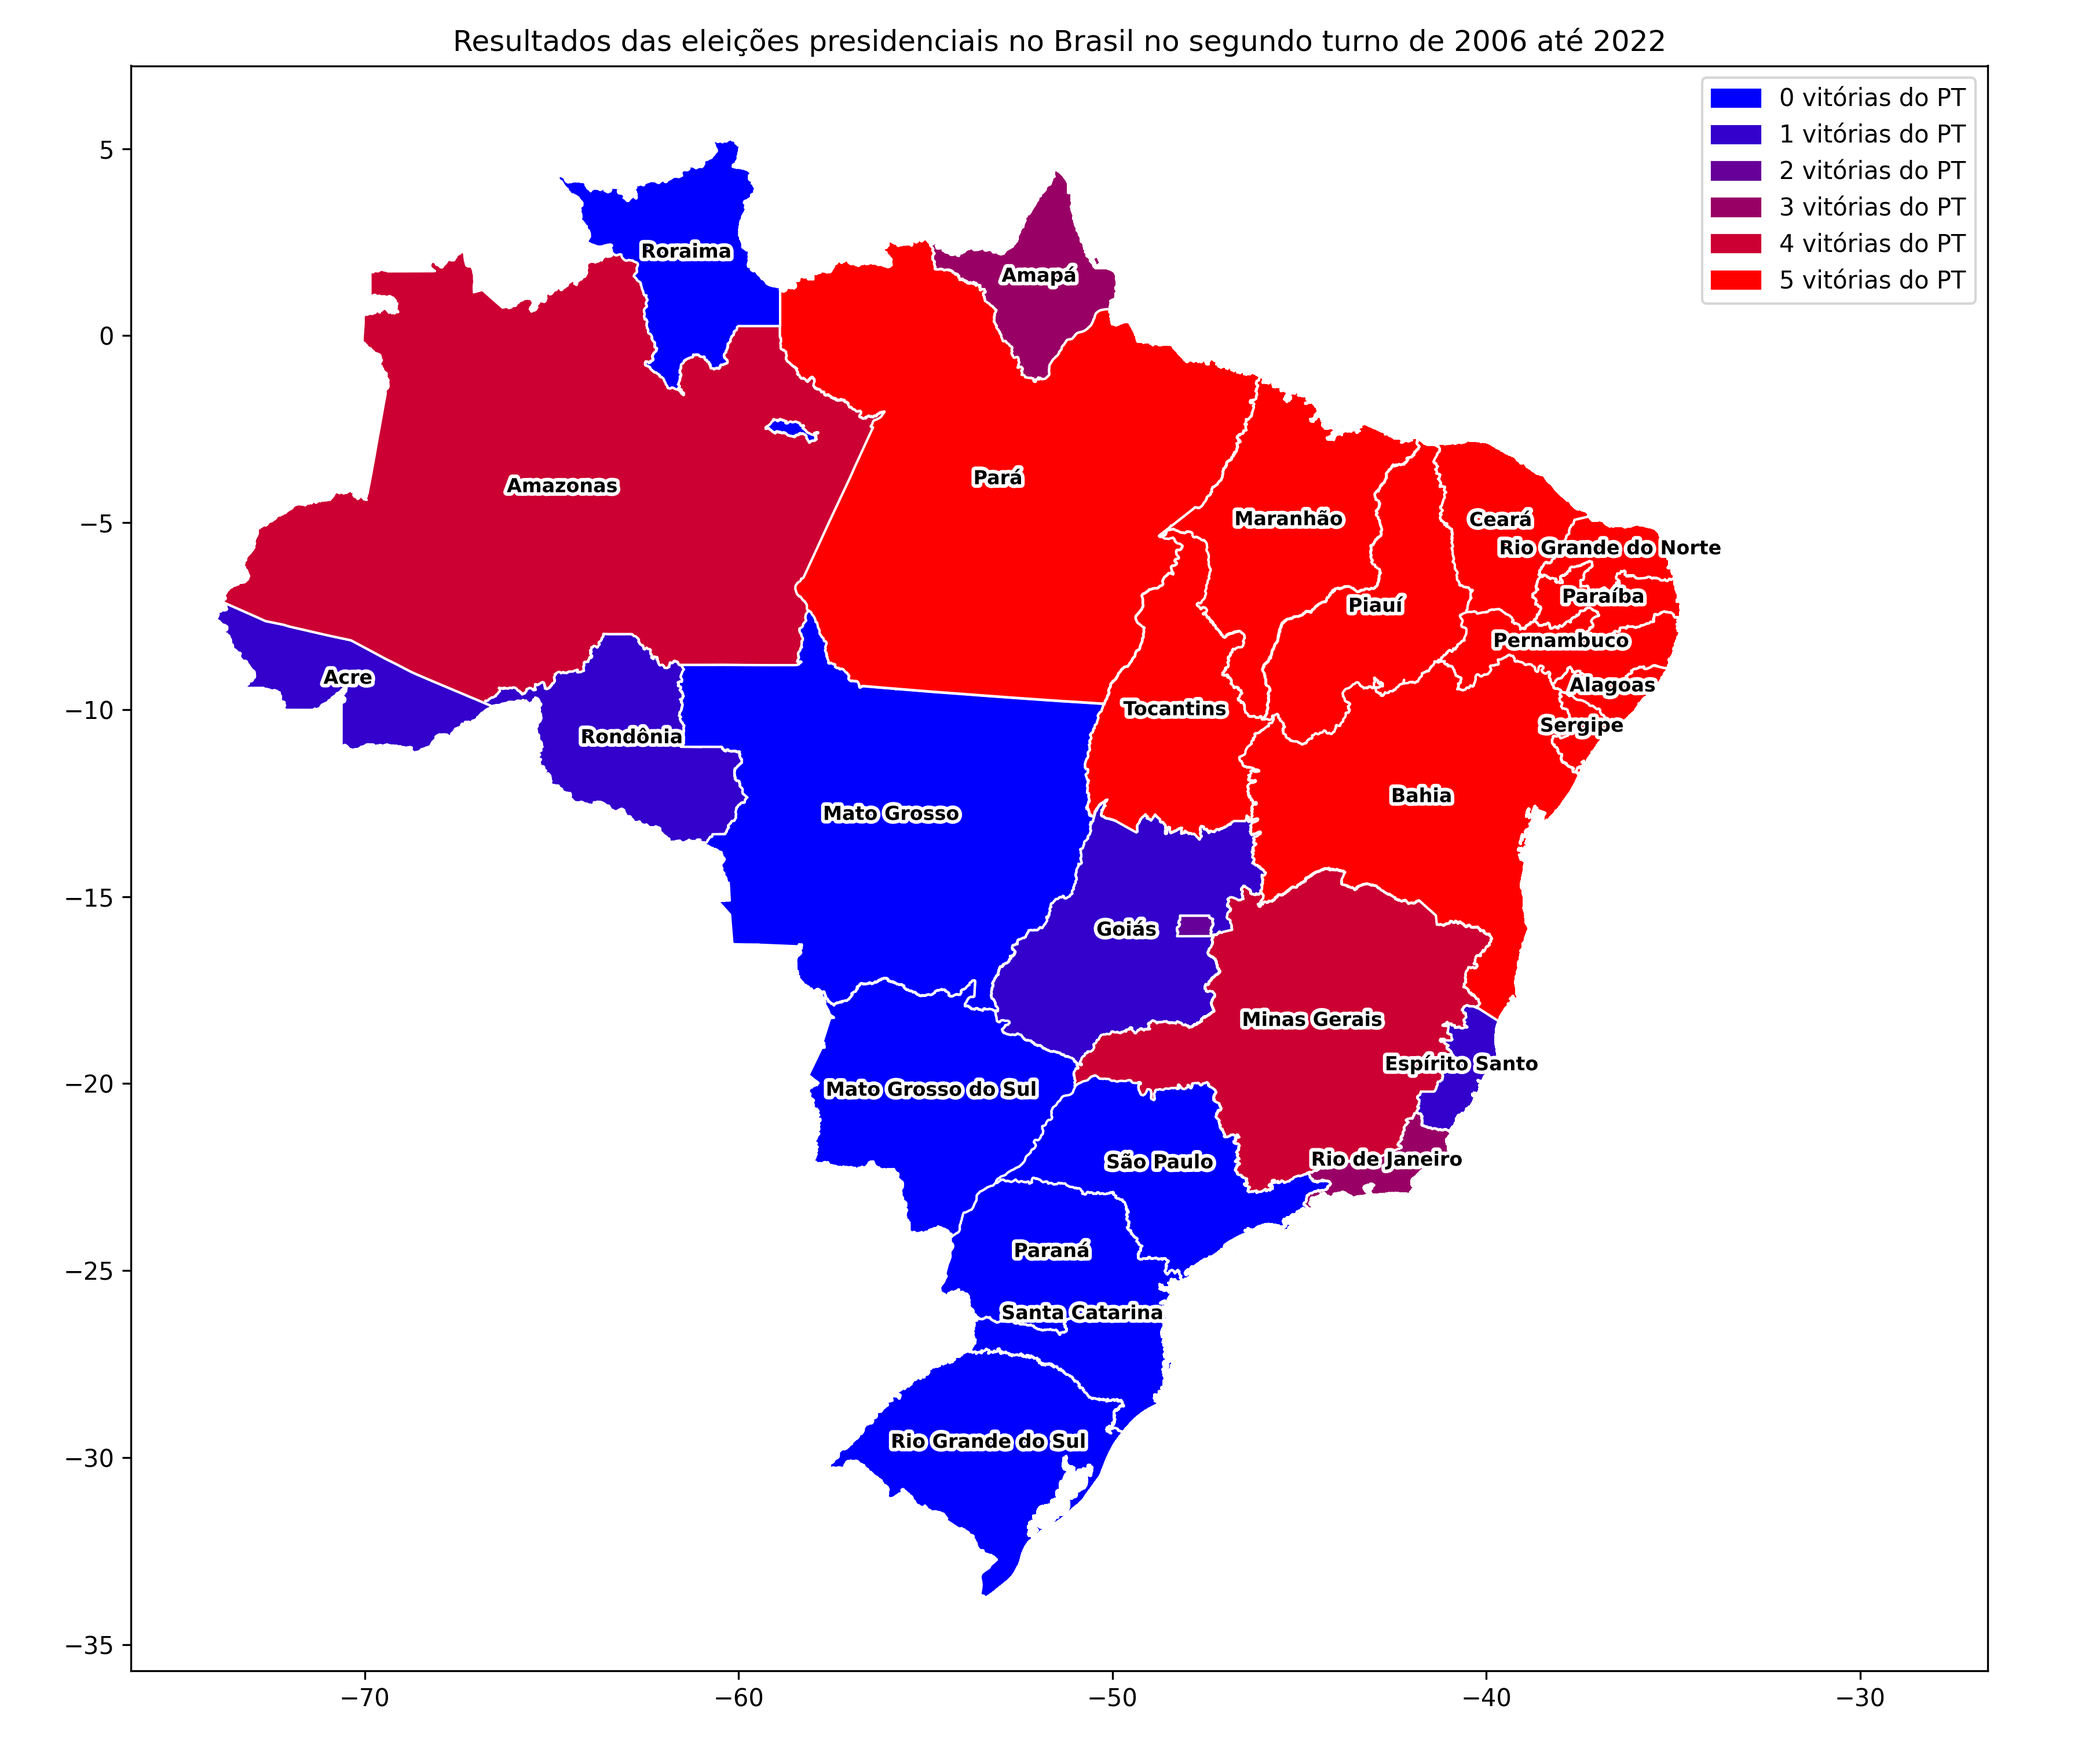
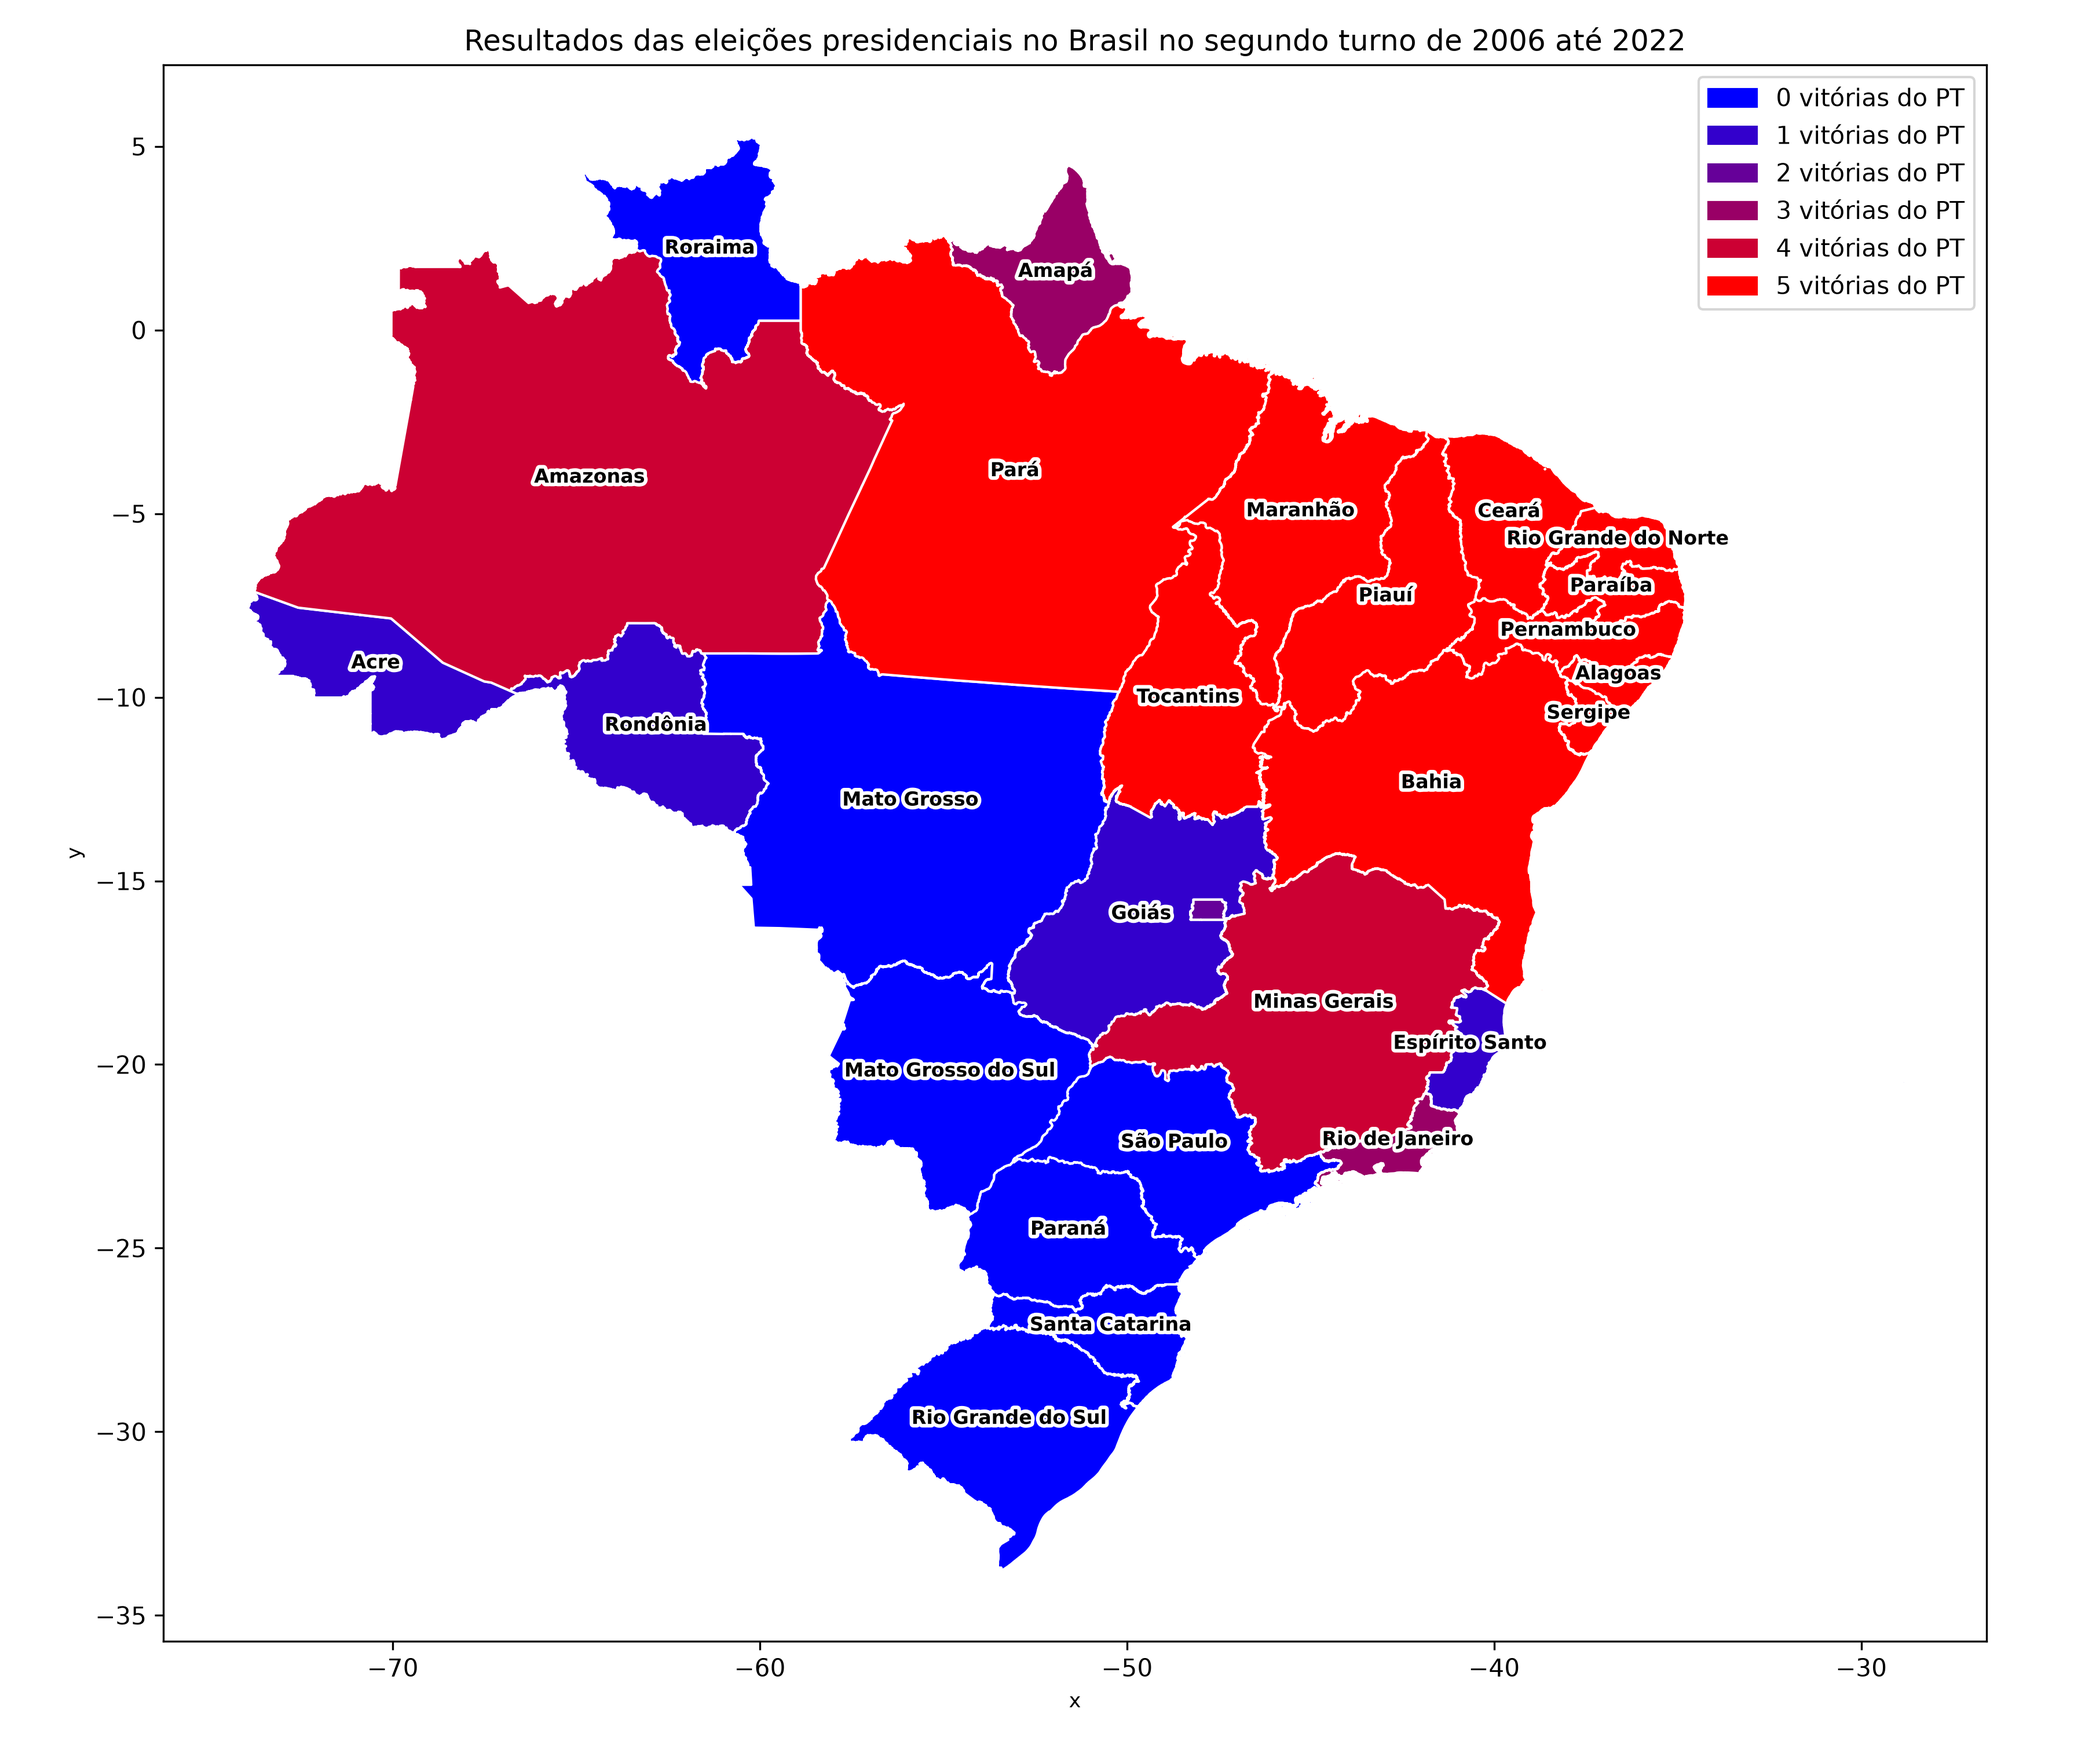
Restore election map generation with official state boundaries

diff --git a/index.py b/index.py
@@ -1,5 +1,4 @@
 import pandas as pd
-import zipfile
 import geopandas as gpd
 import matplotlib.pyplot as plt
 from matplotlib.colors import LinearSegmentedColormap
@@ -8,8 +7,13 @@ import matplotlib.patches as mpatches
 import requests
 import io
 
+HEADERS = {'User-Agent': 'brasil-eleicoes/1.0 (https://github.com/marco-carvalho/brasil-eleicoes)'}
+
 def get_dados_eleicao(url, index_table, year, index_column, left, right):
-  eleicao = pd.read_html(url, flavor='bs4')[index_table][:27].iloc[: , :8]
+  response = requests.get(url, headers=HEADERS, timeout=30)
+  response.raise_for_status()
+  eleicao = pd.read_html(io.StringIO(response.text), flavor='bs4')[index_table]
+  eleicao = eleicao.dropna(how='all')[:27].iloc[:, :8]
   eleicao.insert(0, 'Ano', year)
   eleicao.rename(columns={f'Estado[{index_column}]':'Estado'}, inplace=True)
   eleicao.rename(columns={left:'PT'}, inplace=True)
@@ -17,7 +21,7 @@ def get_dados_eleicao(url, index_table, year, index_column, left, right):
   return eleicao
 
 eleicoes = pd.concat([
-  get_dados_eleicao("https://pt.wikipedia.org/wiki/Elei%C3%A7%C3%A3o_presidencial_no_Brasil_em_2006", 9, 2006, 7, 'Lula', 'Alckmin'),
+  get_dados_eleicao("https://pt.wikipedia.org/wiki/Elei%C3%A7%C3%A3o_presidencial_no_Brasil_em_2006", 11, 2006, 7, 'Lula', 'Alckmin'),
   get_dados_eleicao("https://pt.wikipedia.org/wiki/Resultados_da_elei%C3%A7%C3%A3o_presidencial_no_Brasil_em_2010", 4, 2010, 3, 'Dilma', 'Serra'),
   get_dados_eleicao("https://pt.wikipedia.org/wiki/Resultados_da_elei%C3%A7%C3%A3o_presidencial_no_Brasil_em_2014", 4, 2014, 4, 'Dilma', 'Aécio'),
   get_dados_eleicao("https://pt.wikipedia.org/wiki/Resultados_da_elei%C3%A7%C3%A3o_presidencial_no_Brasil_em_2018", 7, 2018, 3, 'Haddad', 'Bolsonaro'),
@@ -37,11 +41,9 @@ eleicoes['Outros'] = eleicoes['Eleitorado']-eleicoes['Abstenção']-eleicoes['PT
 eleicoes['%Outros'] = eleicoes['Outros']/eleicoes['Eleitorado']
 eleicoes.reset_index(drop=True)
 
-response = requests.get("https://biogeo.ucdavis.edu/data/gadm3.6/gpkg/gadm36_BRA_gpkg.zip")
-zip_bytes = io.BytesIO(response.content)
-with zipfile.ZipFile(zip_bytes, 'r') as z:
-  with z.open("gadm36_BRA.gpkg") as gpkg_bytes:
-    brazil_states = gpd.read_file(gpkg_bytes, layer='gadm36_BRA_1')
+response = requests.get("https://geoftp.ibge.gov.br/organizacao_do_territorio/malhas_territoriais/malhas_municipais/municipio_2025/Brasil/BR_UF_2025.zip", headers=HEADERS, timeout=60)
+response.raise_for_status()
+brazil_states = gpd.read_file(io.BytesIO(response.content))
 
 fig, ax = plt.subplots(1, figsize=(12, 10))
 
@@ -49,7 +51,7 @@ gradient_colors = LinearSegmentedColormap.from_list("Custom", [(0, 0, 1), (1, 0,
 
 legend_patches = []
 for idx, row in brazil_states.iterrows():
-  state_name = row['NAME_1']
+  state_name = row['NM_UF']
   eleicoes_loop_estado = eleicoes[eleicoes['Estado'] == state_name]
   number_of_pt_wins = sum(eleicoes_loop_estado['%PT'] > eleicoes_loop_estado['%Oposição'])
   color = gradient_colors(number_of_pt_wins)
